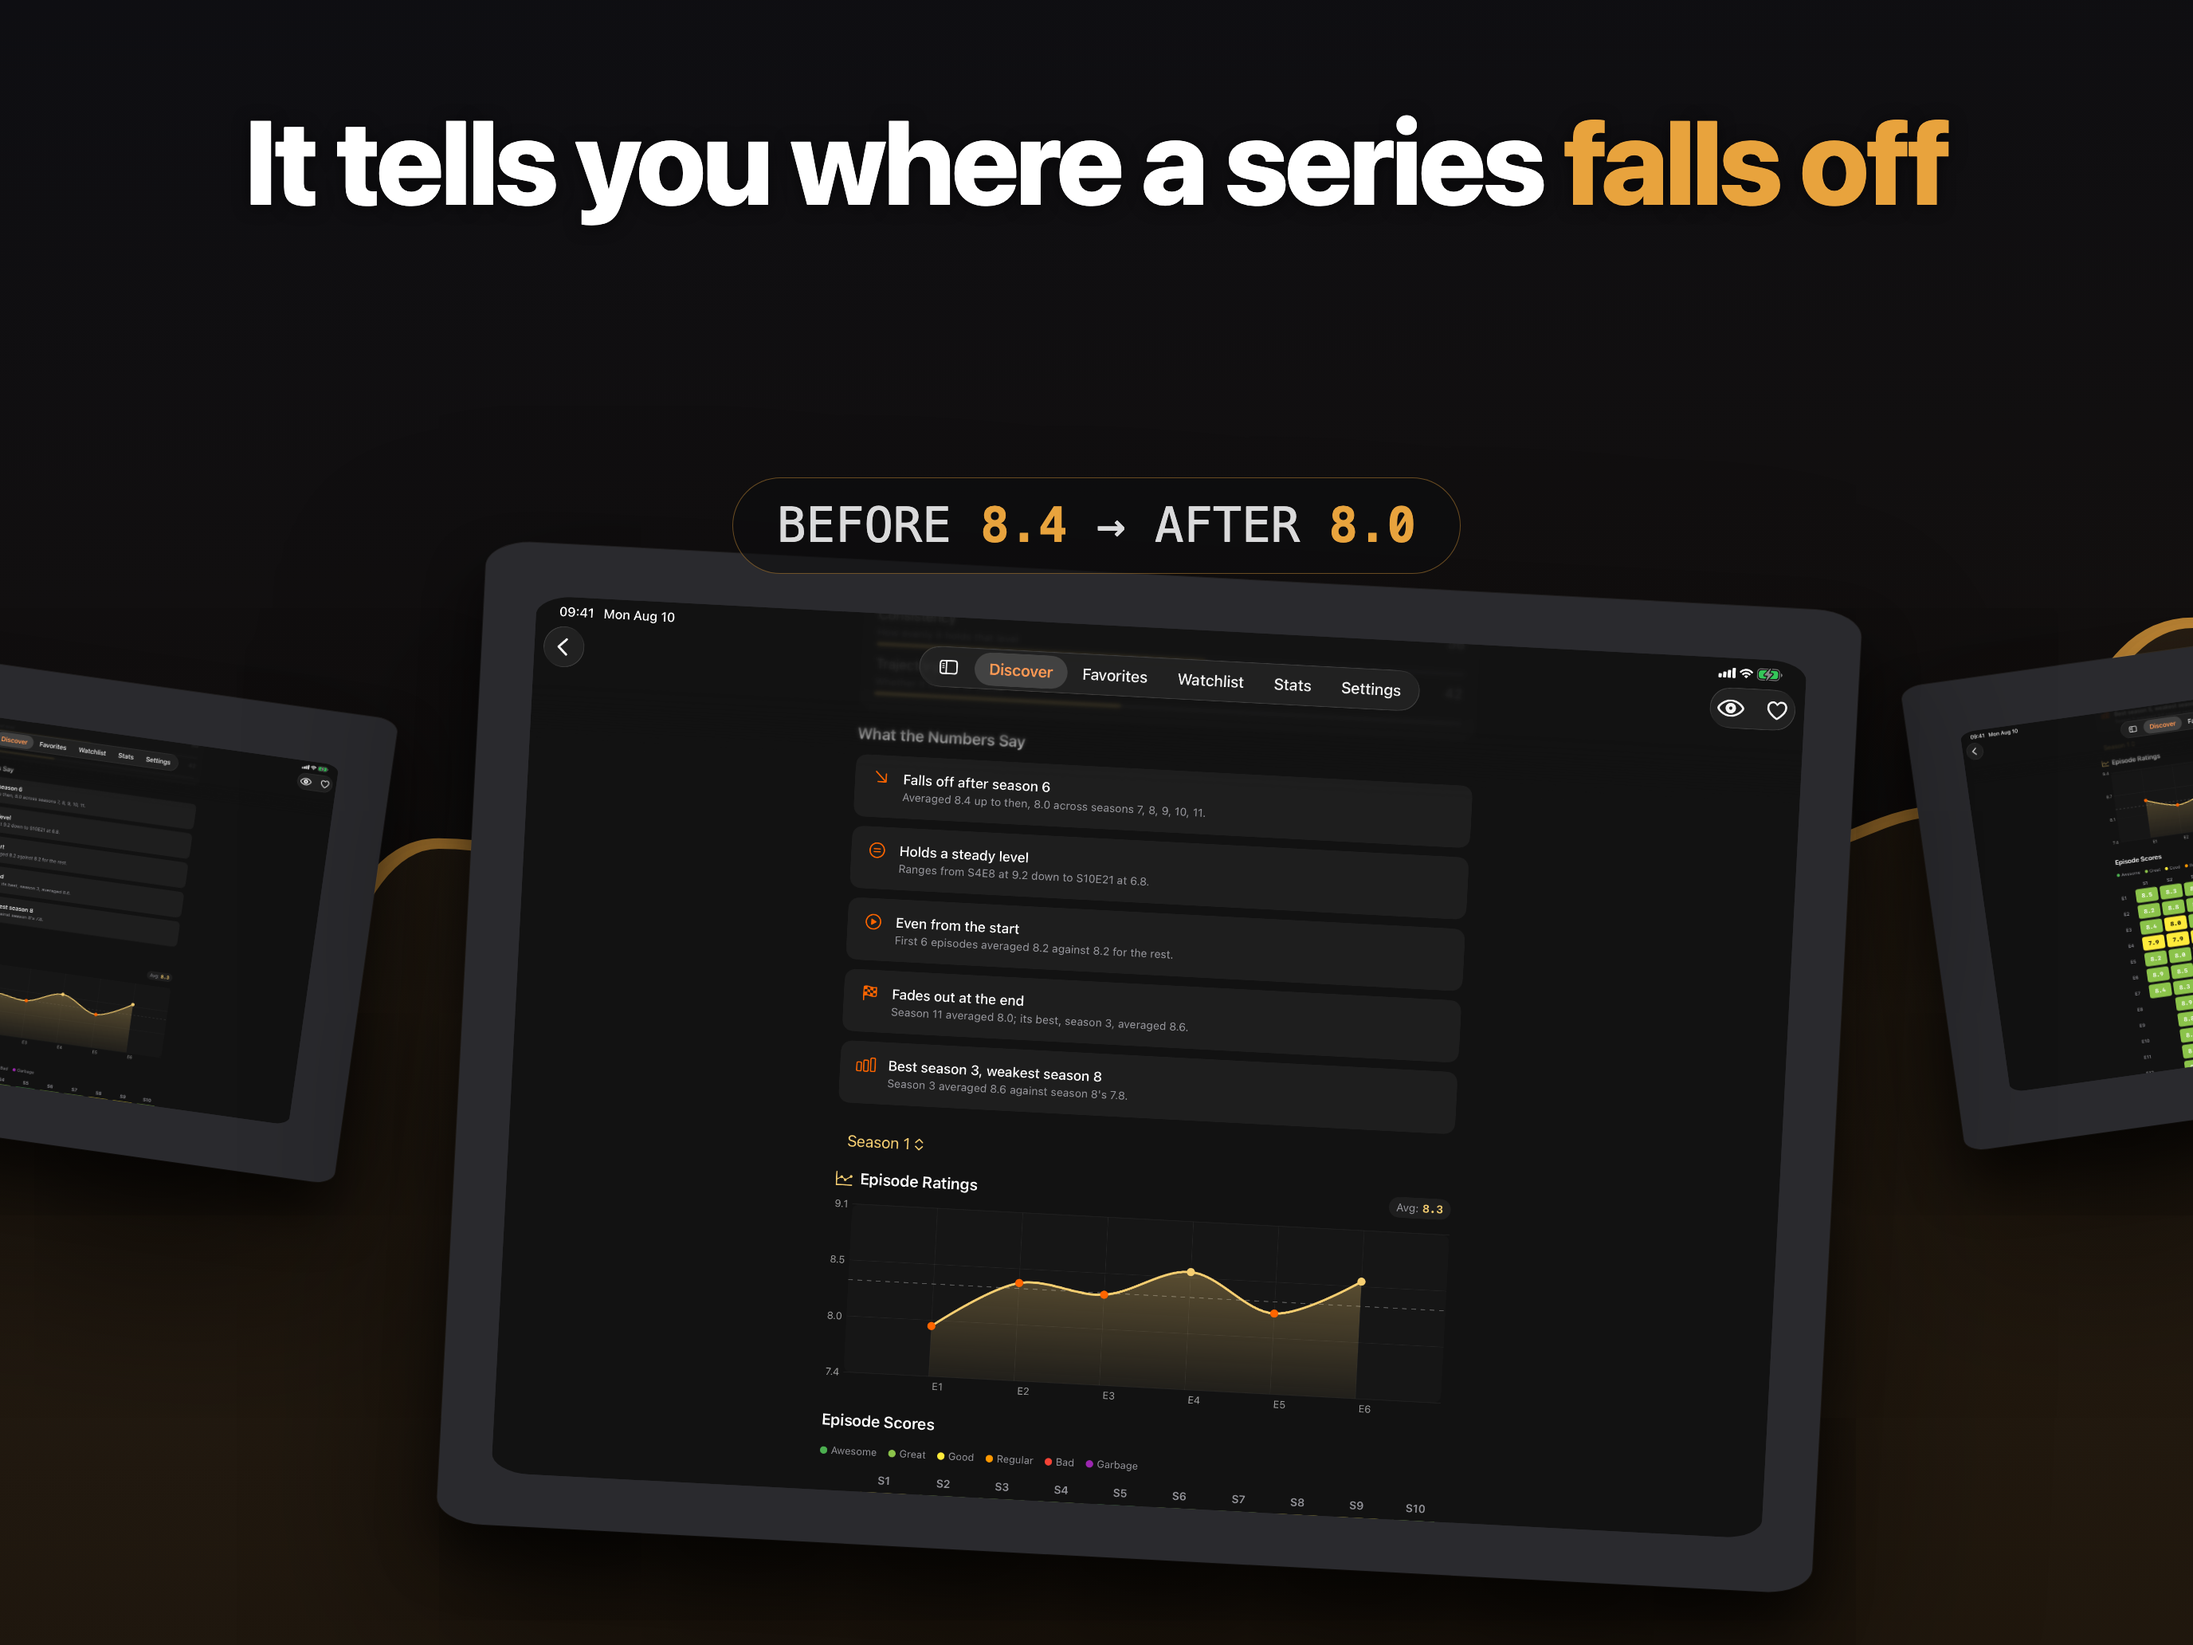
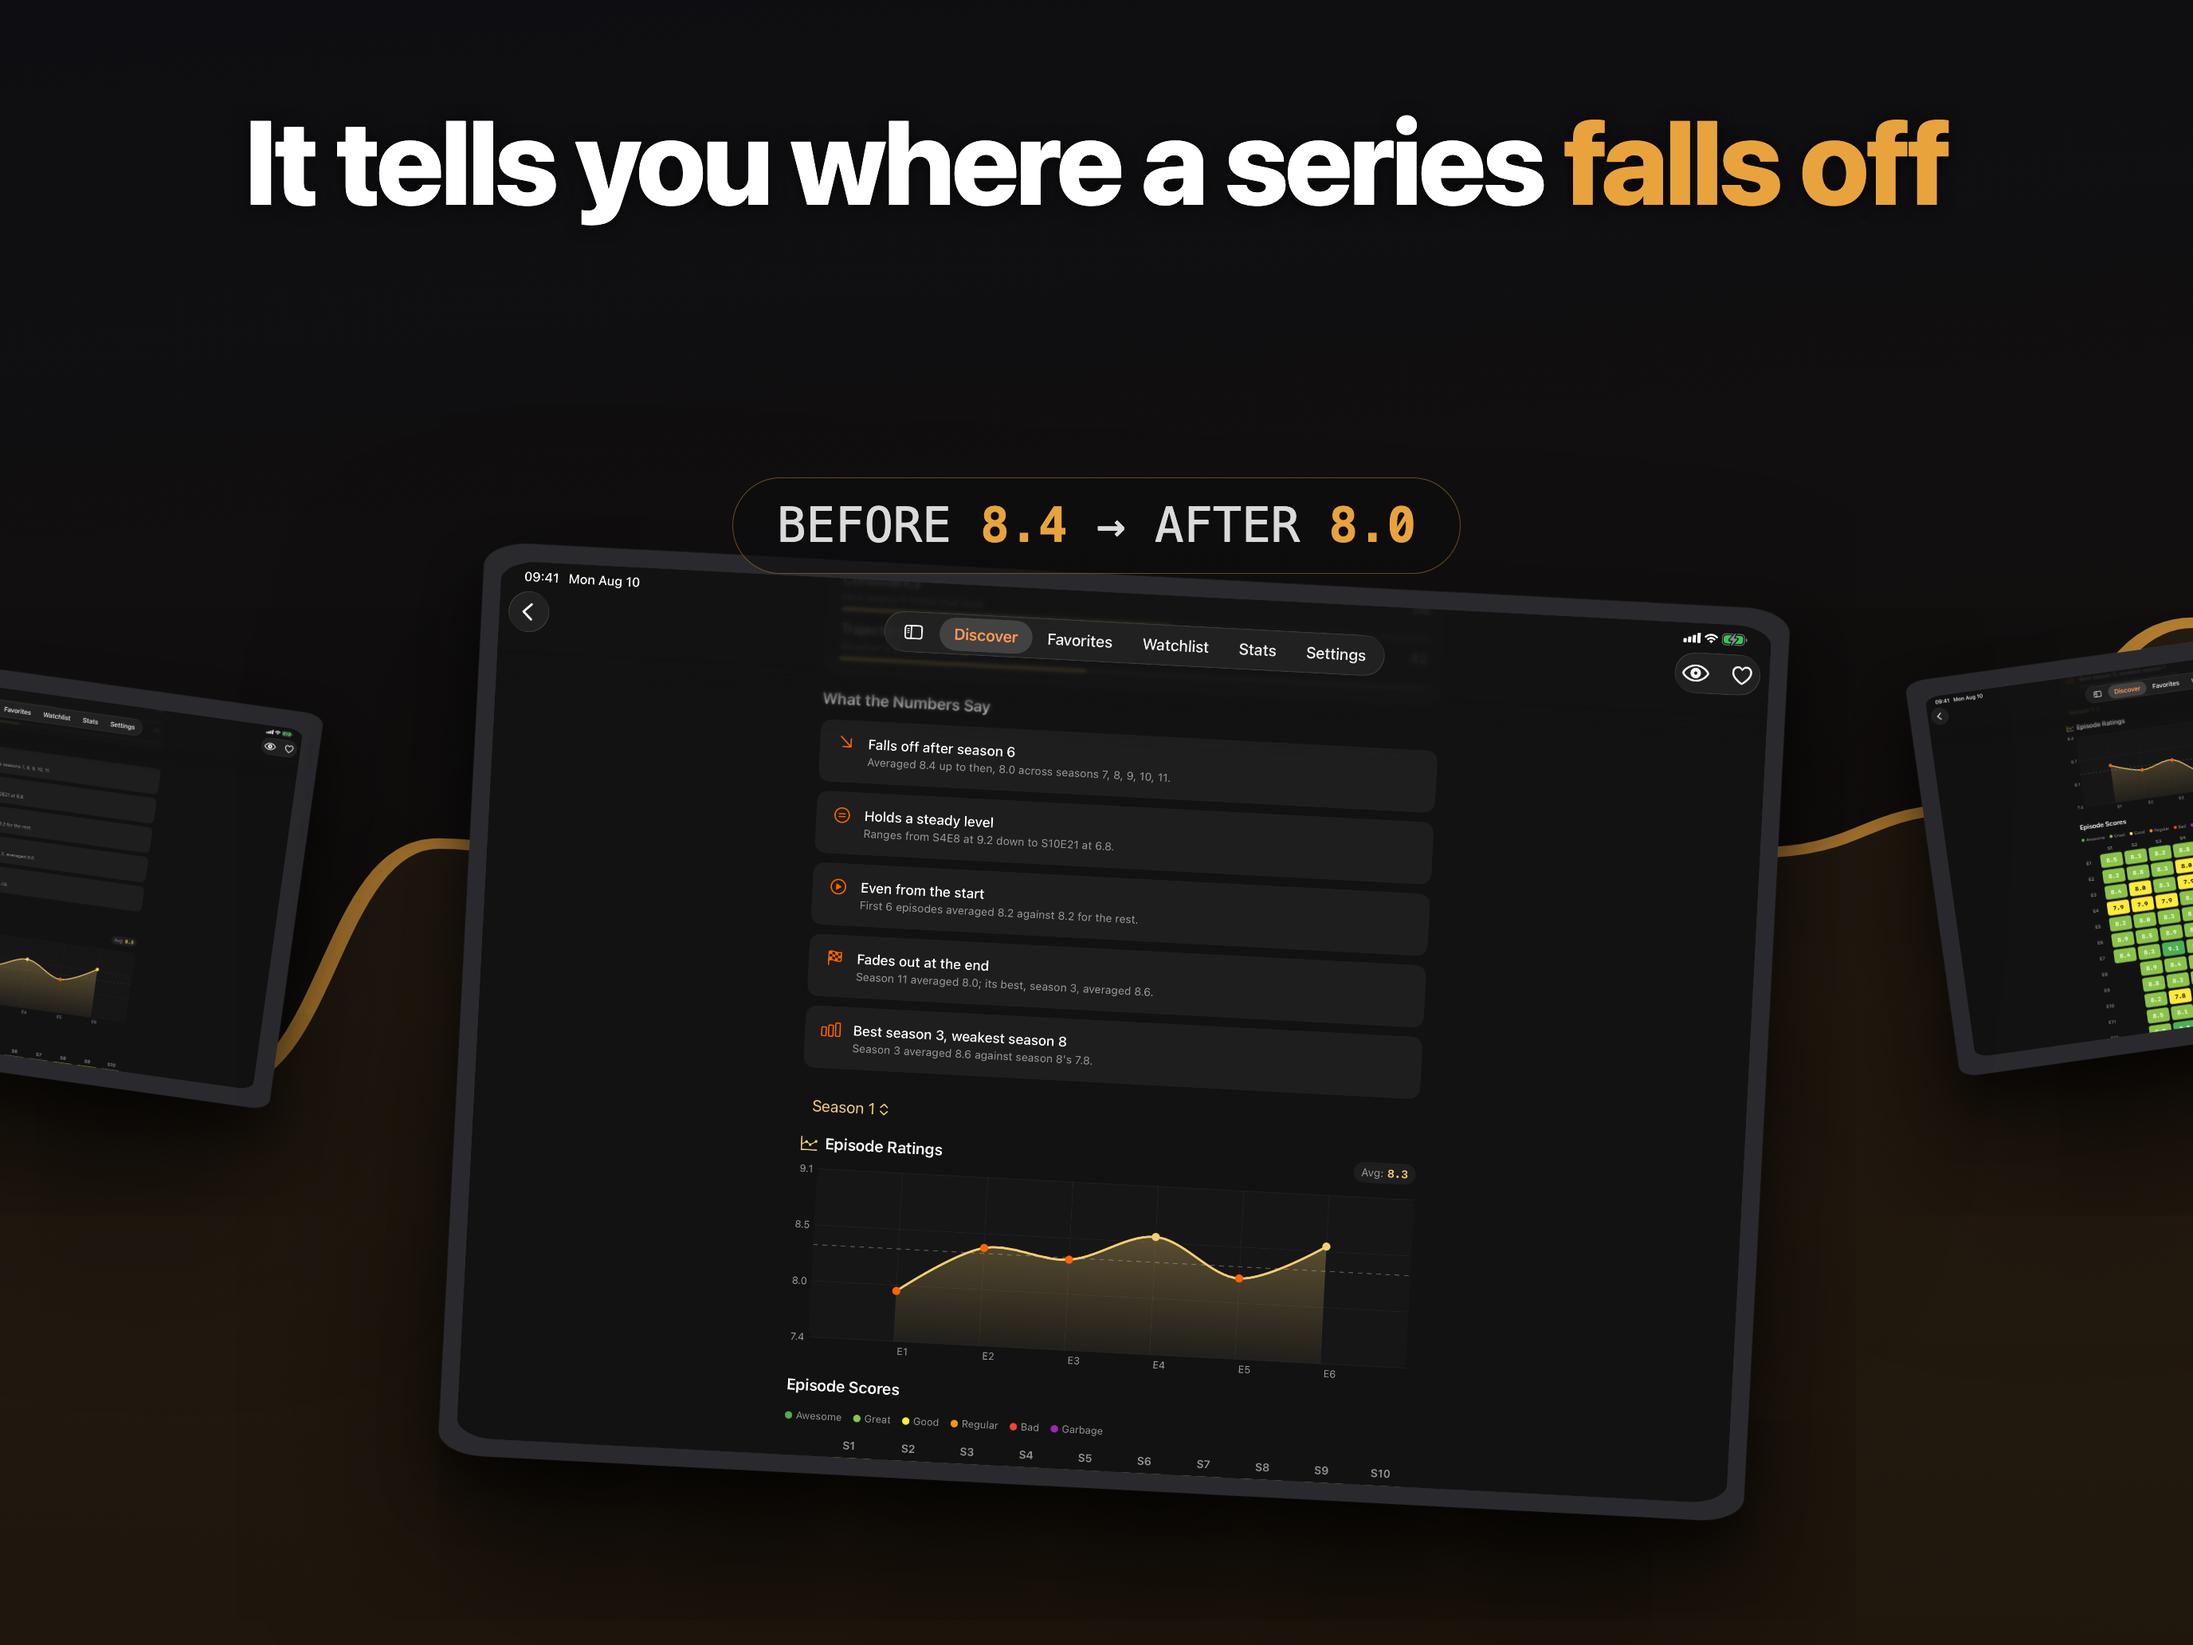
fix: equalize the device bezel and narrow frame 8's headline
Findings 1 and 4 from the whole-branch review.

Finding 1: .phone/.tablet padding was a percentage, which resolves
against the element's own containing block — .stage (300cqw, three
frames wide) for a scene device, .frame (100cqw) for the single device
in frames 4/5. The same "1.1%"/".8%" therefore rendered a bezel three
times thicker in a scene than alone (measured: 43.55px vs 14.52px on
iPhone, 66.05px vs 22.02px on iPad) and silently defeated the intent
that the single device read larger. Switched both to cqw, which always
resolves against the nearest container-type ancestor (.frame) regardless
of nesting depth, so the same value now reads as the same bezel
everywhere — verified by a computed-style probe (14.52px / 22.02px in
both contexts, both families). Kept the thinner figure: it reads closer
to a real device bezel.

Finding 4: frame 8's headline "Genres and decades, charted" overclaimed
what Task 3 changed the frame to show — DecadeBattleView's two bar
charts (Average Rating, Films Rated 8.0+) by decade, plus a Dominant
Genre list that is a clipped header on iPhone and a table of "Drama" on
iPad, not a chart. Changed to "Decade against decade, charted" in both
iphone.html and ipad.html, checked against the re-rendered frame 8 of
each family.

Re-rendered both families: all sixteen files at their required sizes
(1320x2868 iPhone, 2752x2064 iPad). Only frames 1/2/3/6/7/8 changed
pixels, as expected — 4/5's single device already sat directly in
[…]

Changed region(s): [[0.1875, 0.3411, 1.0, 0.9922], [0.0, 0.4031, 0.1875, 0.7442]]

diff --git a/Scripts/screenshots/frame.css b/Scripts/screenshots/frame.css
@@ -42,10 +42,19 @@ html, body { margin: 0; padding: 0; background: #0E0E12; }
 }
 .device img { display: block; width: 100%; height: 100%; object-fit: cover; }
 
-.phone { border-radius: 9% / 4.1%; padding: 1.1%; }
+/* Padding is cqw, not %, and that is load-bearing. A percentage resolves
+   against the element's own containing block, which is .stage (300cqw — three
+   frames wide) for a scene device but .frame (100cqw) for the single device in
+   frames 4/5, so the same "1.1%" rendered a bezel three times thicker in a
+   scene than alone (measured: 43.55px vs 14.52px on iPhone, 66.05px vs 22.02px
+   on iPad). cqw always resolves against the nearest container-type ancestor —
+   .frame, regardless of how deep the element sits inside .stage — so the same
+   value now reads as the same bezel everywhere. The thinner figure is the one
+   kept: it reads closer to a real device bezel at this frame size. */
+.phone { border-radius: 9% / 4.1%; padding: 1.1cqw; }
 .phone img { border-radius: 8% / 3.6%; object-position: top center; }
 
-.tablet { border-radius: 3.4% / 2.6%; padding: .8%; }
+.tablet { border-radius: 3.4% / 2.6%; padding: .8cqw; }
 .tablet img { border-radius: 3% / 2.2%; object-position: top center; }
 
 .headline {

diff --git a/Scripts/screenshots/iphone.html b/Scripts/screenshots/iphone.html
@@ -27,7 +27,7 @@ var FRAMES = [
     chip: '122 SERIES · SHIPPED INSIDE THE APP', centred: true },
   { head: 'Where to watch it,<br><em>in your region</em>', chip: null },
   { head: 'Any two titles,<br><em>side by side</em>', chip: null },
-  { head: 'Genres and decades,<br><em>charted</em>', chip: null }
+  { head: 'Decade against decade,<br><em>charted</em>', chip: null }
 ];
 
 // Two shared scenes. Offsets are cqw — percentages of ONE frame's width —

diff --git a/Scripts/screenshots/ipad.html b/Scripts/screenshots/ipad.html
@@ -29,7 +29,7 @@ var FRAMES = [
     chip: '122 SERIES · SHIPPED INSIDE THE APP' },
   { head: 'Where to watch it, <em>in your region</em>', chip: null },
   { head: 'Any two titles, <em>side by side</em>', chip: null },
-  { head: 'Genres and decades, <em>charted</em>', chip: null }
+  { head: 'Decade against decade,<br><em>charted</em>', chip: null }
 ];
 
 // Two shared scenes, same shape as iphone.html's after its composition
